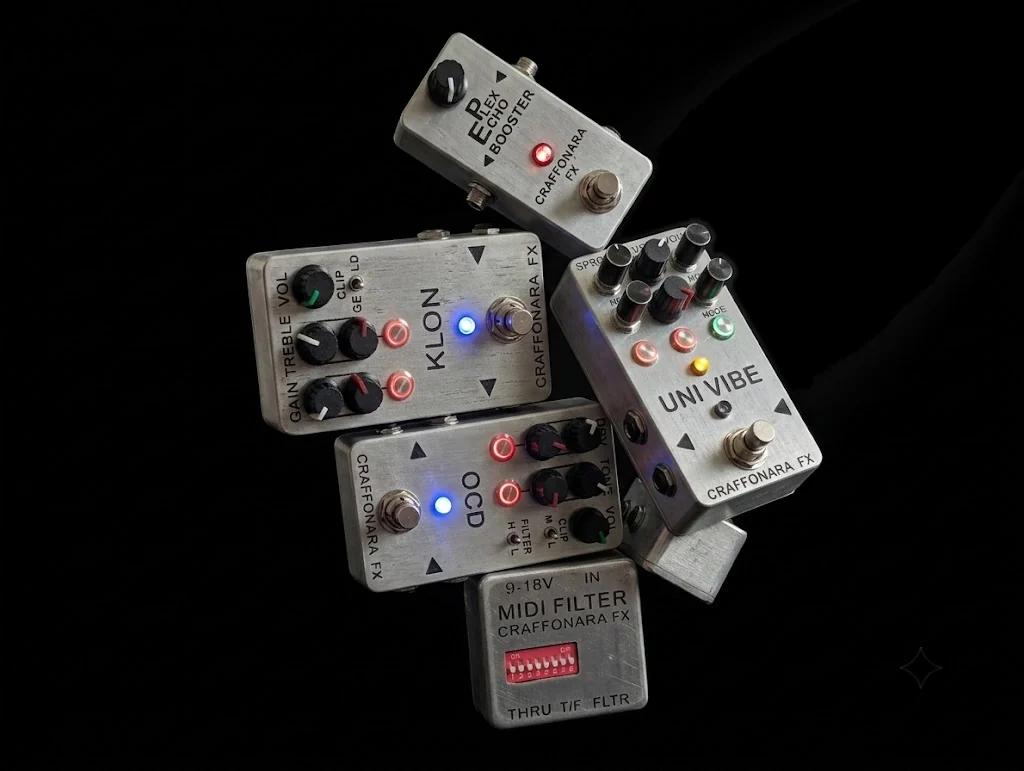
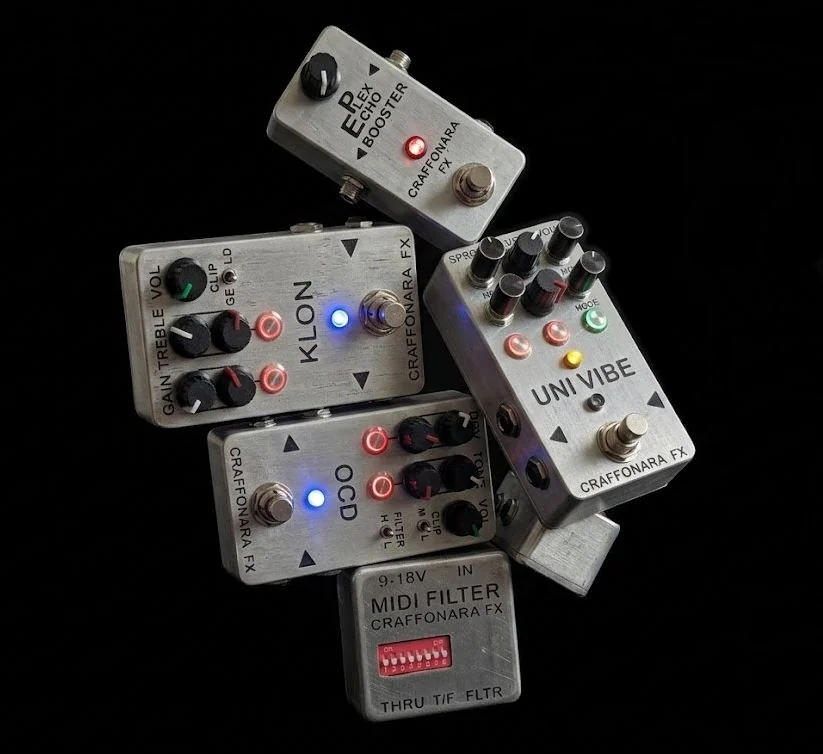
update

Changed region(s): [[0.1215, 0.0305, 0.8505, 0.9761]]

diff --git a/index.html b/index.html
@@ -117,7 +117,7 @@
     }
 
     .section {
-        padding: 110px 0;
+        padding: 60px 0;
         border-top: 1px solid var(--line);
     }
 
@@ -277,19 +277,21 @@
         display: grid;
         grid-template-columns: 0.9fr 1.1fr;
         gap: 60px;
-        align-items: center;
+        align-items: stretch;
     }
     .flagship-photo {
+        position: relative;
         background: #000;
-        border: 1px solid rgba(255,255,255,0.06);
-        border-radius: var(--radius);
+        border: none;
         padding: 24px;
-        box-shadow: 0 30px 55px rgba(0, 0, 0, 0.5);
+        min-height: 280px;
     }
     .flagship-photo img {
-        width: 100%;
-        max-width: 400px;
-        height: auto;
+        position: absolute;
+        inset: 24px;
+        width: calc(100% - 48px);
+        height: calc(100% - 48px);
+        object-fit: contain;
         display: block;
         margin: 0 auto;
     }
@@ -306,6 +308,14 @@
     }
     @media (max-width: 900px) {
         .flagship-grid { grid-template-columns: 1fr; gap: 40px; }
+        .flagship-photo { min-height: 0; }
+        .flagship-photo img {
+            position: static;
+            inset: auto;
+            width: 100%;
+            max-width: 360px;
+            height: auto;
+        }
     }
     /* ---- hero lineup photo (the full range, LEDs lit) -------- */
     .hero-lineup {
@@ -649,8 +659,9 @@
         background: var(--panel);
         border: 1px solid var(--line);
         border-radius: 14px;
-        padding: 30px;
-        margin-top: 44px;
+        padding: 22px;
+        margin: 34px auto 0;
+        max-width: 780px;   /* keep the demo compact, not full-bleed */
     }
     .how-stage svg { width: 100%; height: auto; display: block; }
     .demo .dk { cursor: ns-resize; touch-action: none; }
@@ -713,7 +724,7 @@
     .vibe-tag.hot { color: var(--led); border-color: var(--led); }
     @media (max-width: 900px) {
         .how-steps { grid-template-columns: 1fr; }
-        .how-stage { padding: 14px; }
+        .how-stage { padding: 14px; max-width: 100%; }
     }
 
     /* ============================================================
@@ -756,7 +767,7 @@
         .nav-links.open { display: flex; }
         .nav-links a { padding: 13px 0; border-bottom: 1px dashed var(--line); }
         .nav-toggle { display: block; }
-        .section { padding: 80px 0; }
+        .section { padding: 52px 0; }
     }
     @media (max-width: 560px) {
         .product-grid { grid-template-columns: 1fr; }
@@ -812,7 +823,7 @@
 
         <!-- The full CRAFFONARA FX lineup, LEDs lit -->
         <div class="hero-lineup">
-            <img src="img/lineup-hero.webp" alt="The CRAFFONARA FX lineup — EP Booster, KLON, UNI VIBE, OCD and the MIDI Filter, arranged on black with their LEDs lit" width="1024" height="771">
+            <img src="img/lineup-hero.webp" alt="The CRAFFONARA FX lineup — EP Booster, KLON, UNI VIBE, OCD and the MIDI Filter, arranged on black with their LEDs lit" width="823" height="754">
         </div>
     </div>
     </div>
@@ -822,7 +833,7 @@
 <section class="section" id="flagship">
     <div class="wrap flagship-grid">
         <div class="flagship-photo reveal">
-            <img src="img/ocd-hero.webp" alt="CRAFFONARA FX OCD — silver dual-preset overdrive pedal with MIDI" width="800" height="1062">
+            <img src="img/ocd-hero.webp" alt="CRAFFONARA FX OCD — silver dual-preset overdrive pedal with MIDI" width="560" height="912">
         </div>
         <div class="flagship-copy">
             <span class="eyebrow reveal">Fresh off the bench</span>
@@ -1131,6 +1142,27 @@
     </div>
 </section>
 
+<!-- ================= PRODUCTS ================= -->
+<section class="section" id="pedals">
+    <div class="wrap">
+        <span class="eyebrow reveal">Current builds &amp; services</span>
+        <h2 class="section-title reveal">Pedals</h2>
+        <p class="section-intro reveal">
+            The current builds, fresh off the bench — more pedals are in the
+            works and will land here soon. Everything can be adapted: colors,
+            controls, MIDI mapping.
+        </p>
+        <!-- Filter chips — re-enable once more products are in products.js:
+        <div class="filters reveal" id="filters" role="group" aria-label="Filter products">
+            <button class="chip active" data-filter="all">All</button>
+            <button class="chip" data-filter="custom">Custom builds</button>
+            <button class="chip" data-filter="mod">Mods</button>
+            <button class="chip" data-filter="midi">MIDI</button>
+        </div> -->
+        <div class="product-grid" id="productGrid"></div>
+    </div>
+</section>
+
 <!-- ================= SERVICES ================= -->
 <section class="section" id="services">
     <div class="wrap">
@@ -1163,27 +1195,6 @@
                    brought under Program Change and CC control with a clean TRS MIDI install.</p>
             </article>
         </div>
-    </div>
-</section>
-
-<!-- ================= PRODUCTS ================= -->
-<section class="section" id="pedals">
-    <div class="wrap">
-        <span class="eyebrow reveal">Current builds &amp; services</span>
-        <h2 class="section-title reveal">Pedals</h2>
-        <p class="section-intro reveal">
-            The current builds, fresh off the bench — more pedals are in the
-            works and will land here soon. Everything can be adapted: colors,
-            controls, MIDI mapping.
-        </p>
-        <!-- Filter chips — re-enable once more products are in products.js:
-        <div class="filters reveal" id="filters" role="group" aria-label="Filter products">
-            <button class="chip active" data-filter="all">All</button>
-            <button class="chip" data-filter="custom">Custom builds</button>
-            <button class="chip" data-filter="mod">Mods</button>
-            <button class="chip" data-filter="midi">MIDI</button>
-        </div> -->
-        <div class="product-grid" id="productGrid"></div>
     </div>
 </section>
 